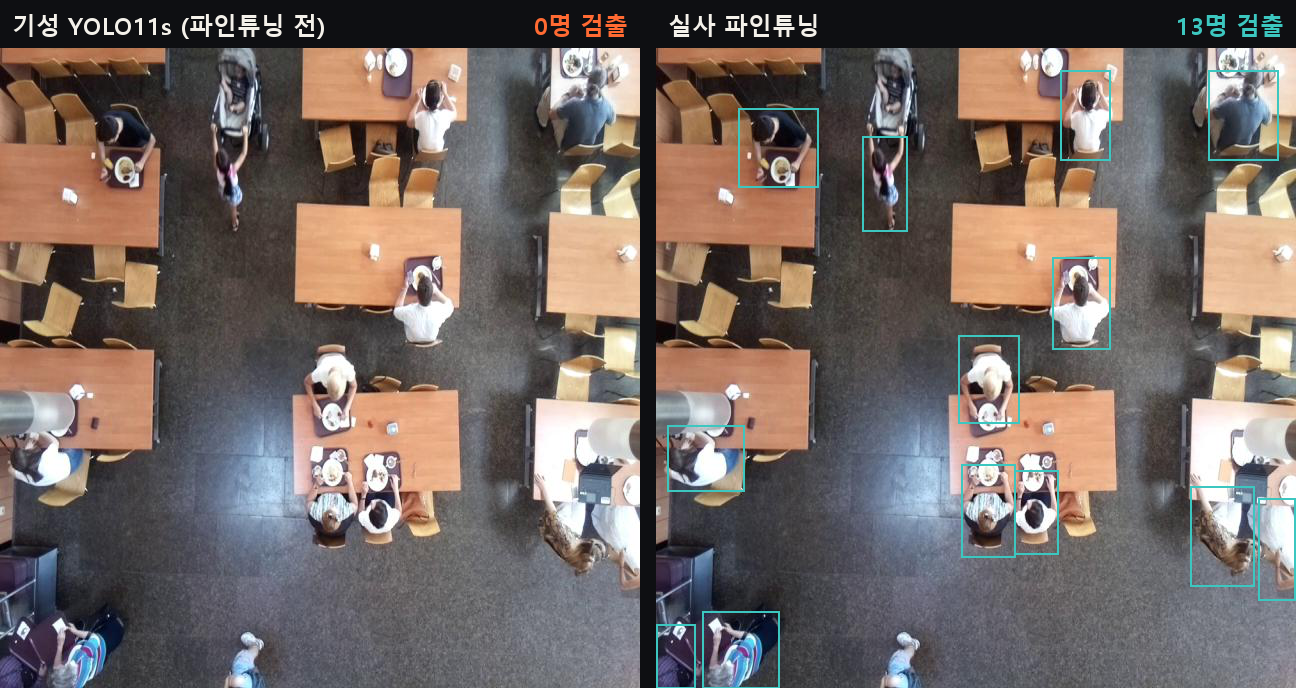
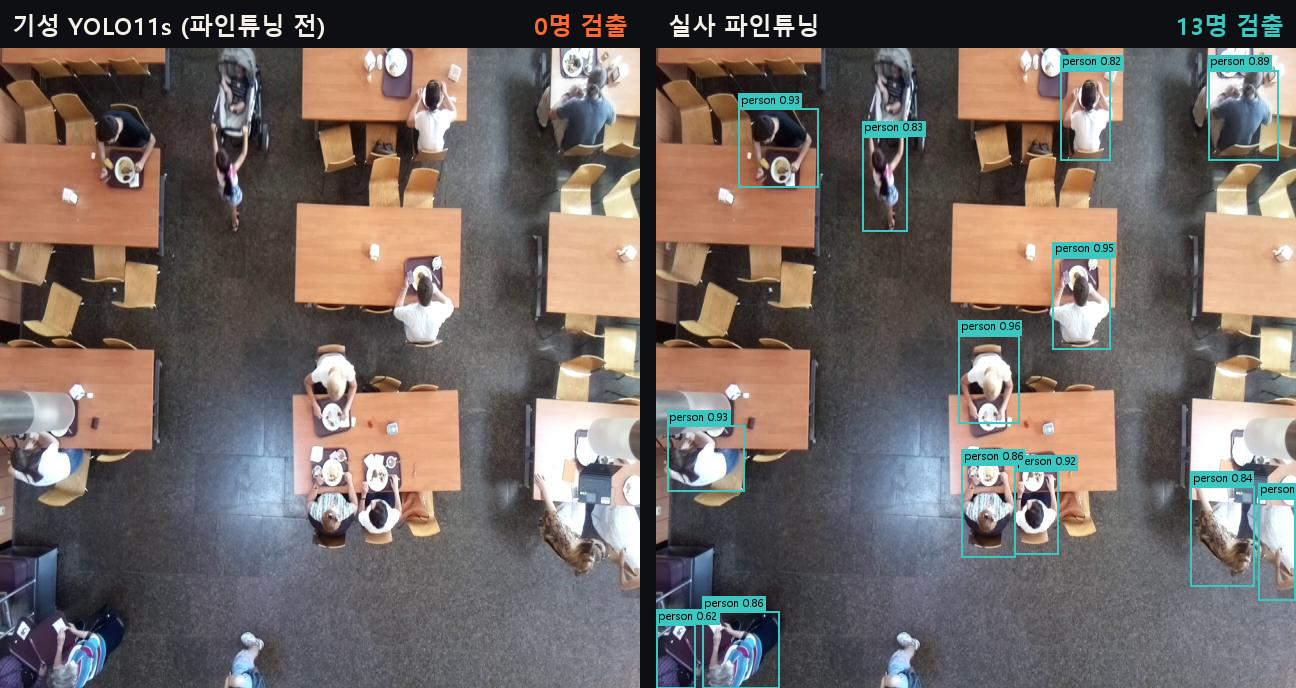
발표 에셋: 검출 박스에 person 0.XX 신뢰도 라벨 추가 (YOLO 스타일)
박스별 클래스·conf 라벨 표기. 합성 3→10, 실사 0→13 그대로.

diff --git a/docs/chanwoo/presentation/scripts/infer_boxes.py b/docs/chanwoo/presentation/scripts/infer_boxes.py
@@ -16,13 +16,24 @@ def font(sz, bold=True):
         except: pass
     return ImageFont.load_default()
 
-def draw_boxes(img, boxes, color, width=None):
+def draw_boxes(img, boxes, color, width=None, cls_name="person", show_label=True):
     im = img.convert("RGB").copy()
     d = ImageDraw.Draw(im)
     W,H = im.size
     w = width or max(2, int(round(W/400)))
+    fsz = max(11, int(round(W/95)))
+    f = font(fsz, bold=False)
     for (x1,y1,x2,y2,conf) in boxes:
         d.rectangle([x1,y1,x2,y2], outline=color, width=w)
+        if show_label:
+            txt = f"{cls_name} {conf:.2f}"
+            tb = d.textbbox((0,0), txt, font=f)
+            tw, th = tb[2]-tb[0], tb[3]-tb[1]
+            pad = max(2, fsz//5)
+            ty = y1 - th - 2*pad
+            if ty < 0: ty = y1
+            d.rectangle([x1, ty, x1+tw+2*pad, ty+th+2*pad], fill=color)
+            d.text((x1+pad, ty+pad-tb[1]), txt, fill=(8,9,11), font=f)
     return im
 
 def header(im, text, color, count):
